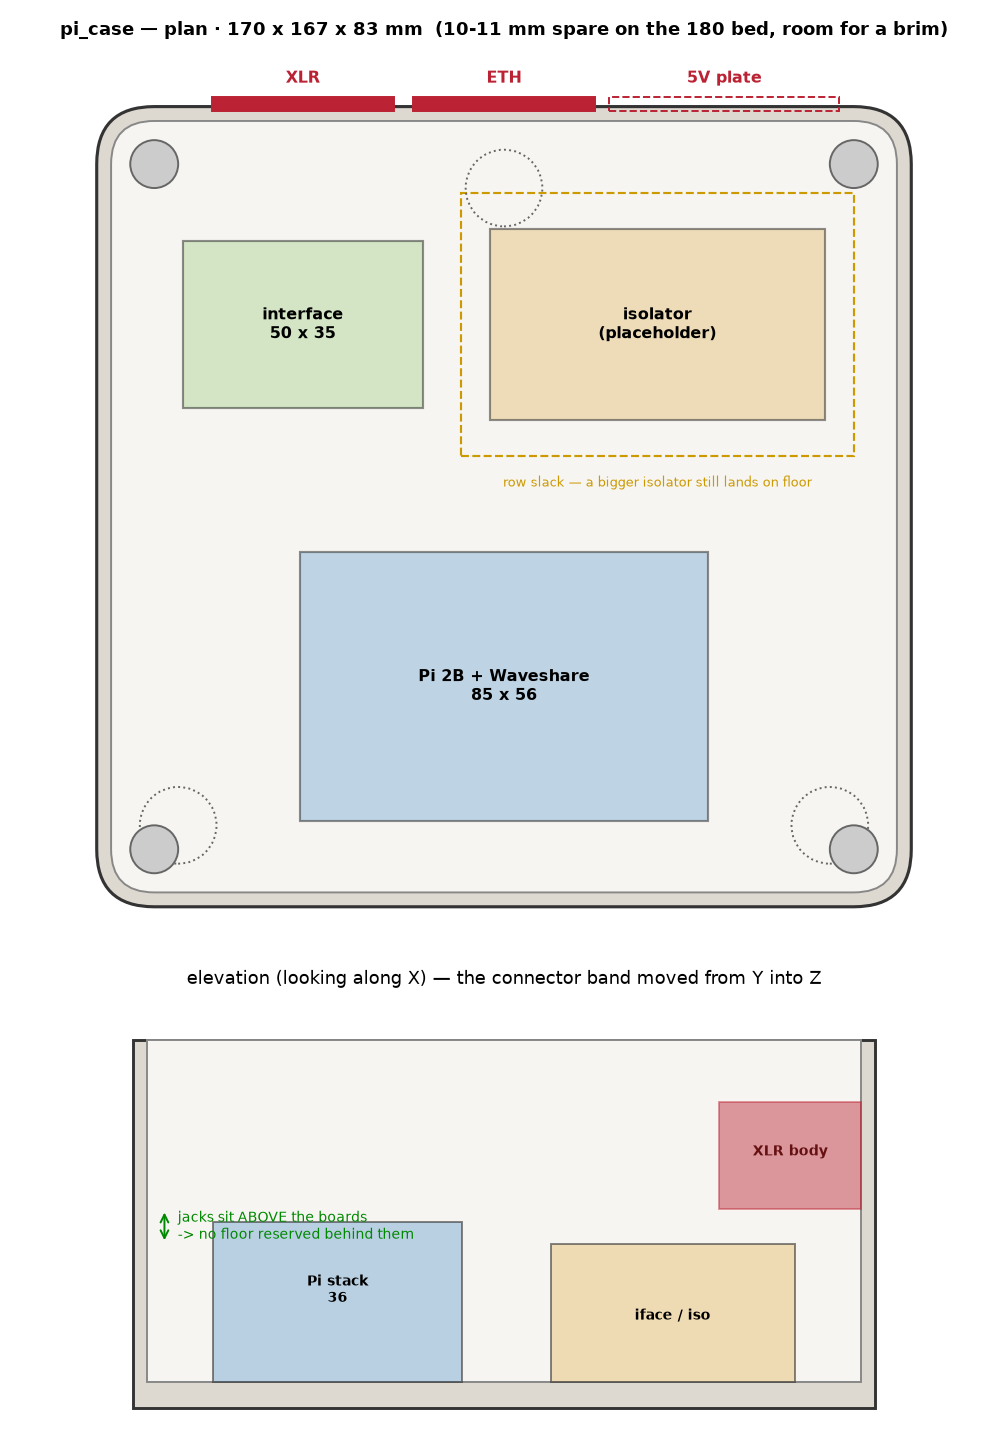
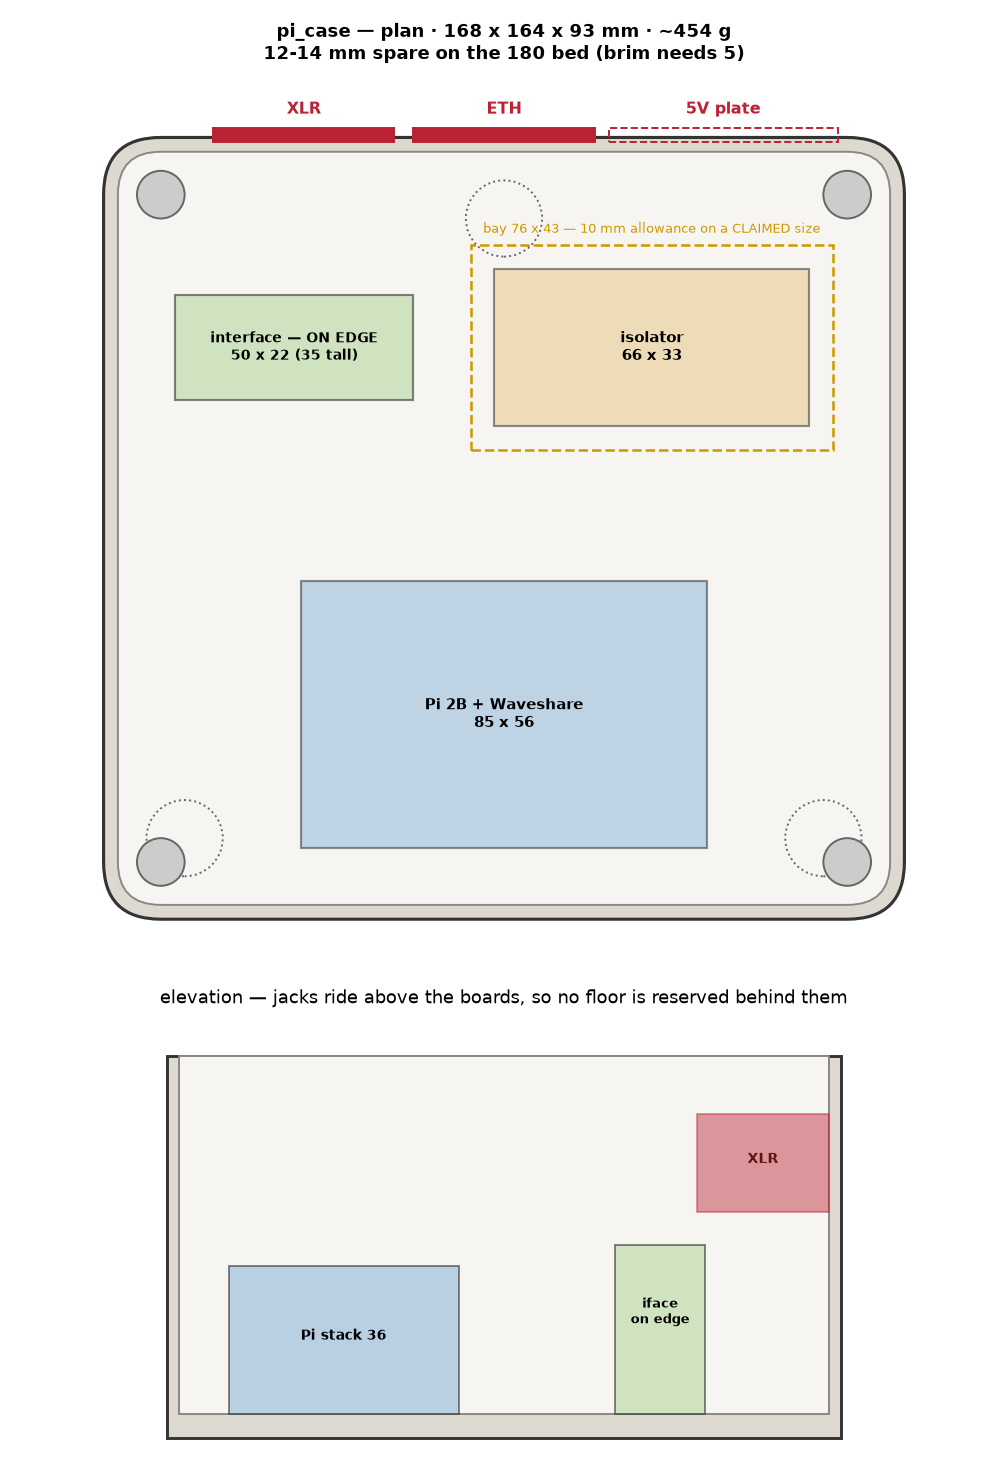
pi_case: real isolator dimensions, with the slack made explicit
Amazon claims 1.3 x 2.6 x 0.9 in = 33 x 66 x 23 mm, so the 70 x 40 x 25
placeholder was generous in every axis and the case does not grow.

Listing dimensions are often the package or rounded and the part is not
in hand, so the slack is now a NAMED allowance (iso_allow = 10 mm) rather
than padding hidden inside an inflated guess. The bay and its retaining
ribs are built from iso_* + iso_allow, so a part up to 10 mm over the
claim still drops in; the bay is open rather than a pocket, so being
wrong by more than that costs a rib trim, not a reprint.

That allowance pushed the case past the bed-with-brim assert, which is
the check working. Kept the allowance and trimmed side_margin 15 -> 12
and row_gap_x 14 -> 12 instead: a wrong listing dimension is the more
likely failure than 3 mm of wall clearance mattering.

168 x 164 x 93, ~454 g, 12-14 mm spare on the bed.

diff --git a/parts/pi_case.py b/parts/pi_case.py
@@ -53,9 +53,12 @@ bed_max = 180.0         # printer bed; asserted against below
 # print was scrap. Several of these numbers ARE guesses (the isolator especially).
 # The A1 Mini is 180 x 180 x 180 and this box is nowhere near the volume limit, so
 # slack is nearly free -- spend it.
-side_margin = 15.0      # board edge -> inner wall (was 6)
+side_margin = 12.0      # board edge -> inner wall (was 6, briefly 15). Trimmed to
+                        # keep the isolator's 10 mm allowance AND stay inside the bed
+                        # with a brim -- the allowance protects against a wrong listing
+                        # dimension, which is the more likely failure.
 band_gap = 20.0         # between ROWS (Pi row -> component row), for wiring (was 8)
-row_gap_x = 14.0        # between the two bays WITHIN the component row. Smaller than
+row_gap_x = 12.0        # between the two bays WITHIN the component row. Smaller than
                         # band_gap on purpose: this pair is what sets the case width,
                         # and at 20 the case came out 176 mm on a 180 mm bed -- no room
                         # for a brim or skirt, which is its own kind of brittle.
@@ -82,8 +85,8 @@ iface_stack_h = 20.0    # board + screw terminals, generous
 # (40 mm), not the interface board, so standing it up does not shrink this box. It
 # is still worth doing -- the screw terminals end up facing sideways and reachable
 # with the lid off, and the runs to the XLR above get shorter.
-_row_back = max(iface_edge_depth, iso_wid) + row_slack
-cav_x = max(pi_len, iface_len + row_gap_x + iso_len) + 2 * side_margin
+_row_back = max(iface_edge_depth, iso_wid + iso_allow) + row_slack
+cav_x = max(pi_len, iface_len + row_gap_x + iso_len + iso_allow) + 2 * side_margin
 cav_y = pi_wid + band_gap + _row_back + 2 * side_margin
 # Only the isolator now sits under the connector wall; the on-edge interface board
 # is off at -X, clear of every jack (asserted below).
@@ -99,8 +102,8 @@ top_z = floor_th + cav_h
 _y0 = -cav_y / 2 + side_margin                      # inner face of the -Y wall
 pi_cy = _y0 + pi_wid / 2
 _row_cy = _y0 + pi_wid + band_gap + _row_back / 2
-iface_cx = -(iface_len + row_gap_x + iso_len) / 2 + iface_len / 2
-iso_cx = (iface_len + row_gap_x + iso_len) / 2 - iso_len / 2
+iface_cx = -(iface_len + row_gap_x + iso_len + iso_allow) / 2 + iface_len / 2
+iso_cx = (iface_len + row_gap_x + iso_len + iso_allow) / 2 - (iso_len + iso_allow) / 2
 pi_cx = 0.0
 
 # --- Pi mount points (chassis.py geometry, translated to pi_cx/pi_cy) ---
@@ -226,8 +229,8 @@ with BuildPart() as pi_case:
 
     # --- isolator retaining ribs (open bay, deliberately not a pocket) ---
     for _sx in (1, -1):
-        with Locations((iso_cx + _sx * (iso_len / 2 + iso_rib_th / 2), _row_cy, floor_th)):
-            Box(iso_rib_th, iso_wid, iso_rib_h,
+        with Locations((iso_cx + _sx * ((iso_len + iso_allow) / 2 + iso_rib_th / 2), _row_cy, floor_th)):
+            Box(iso_rib_th, iso_wid + iso_allow, iso_rib_h,
                 align=(Align.CENTER, Align.CENTER, Align.MIN))
 
     # --- feet: local pads inside, blind pilots up from the bottom face ---
@@ -314,8 +317,8 @@ assert panel_z - xlr_bore_dia / 2 > floor_th, "connector bore cuts into the floo
 # the Pi must not reach into the connector band
 assert xlr_body_depth < cav_y - side_margin, "XLR body is deeper than the cavity"
 # bays must not overlap each other
-assert iface_cx + iface_len / 2 < iso_cx - iso_len / 2, "on-edge board and isolator overlap"
-assert iso_len + 2 * side_margin <= cav_x, "isolator is wider than the cavity"
+assert iface_cx + iface_len / 2 < iso_cx - (iso_len + iso_allow) / 2, "on-edge board and isolator bay overlap"
+assert iso_len + iso_allow + 2 * side_margin <= cav_x, "isolator bay is wider than the cavity"
 # the on-edge board must not sit under any jack
 
 assert _row_cy - _row_back / 2 > pi_cy + pi_wid / 2, "component row overlaps the Pi"

diff --git a/dimensions.py b/dimensions.py
@@ -138,14 +138,17 @@ iface_screw = 3.0
 iface_washer_od = 9.0     # covers a 5 mm hole with margin
 
 # --- Galvanic Ethernet isolator (inline, RJ45 both ends) ---------------------
-# ⚠ NOT MEASURED. Charles confirmed 2026-08-07 it is an inline module needing a
-# patch cable on BOTH sides, but it is currently out of circuit and undimensioned.
-# These are a PLACEHOLDER. The case derives its size from the bay table, so
-# correcting these three numbers rescales the case -- it does not force a redesign.
-# Confirm before printing the case (the coupon does not depend on them).
-iso_len = 70.0
-iso_wid = 40.0
-iso_h = 25.0
+# CLAIMED by the Amazon listing (Charles, 2026-08-07): 1.3" L x 2.6" W x 0.9" H
+# = 33 x 66 x 23 mm. Listing dimensions are frequently the PACKAGE or rounded, and
+# this part is still not in hand, so `iso_allow` below is not decoration -- it is
+# what stops a wrong listing from scrapping a 460 g print.
+iso_len = 66.0            # 2.6 in
+iso_wid = 33.0            # 1.3 in
+iso_h = 23.0              # 0.9 in
+iso_allow = 10.0          # added to the bay on every side before the retaining ribs
+                          # are placed, so a part up to 10 mm over the claim still
+                          # drops in. The bay is open, not a pocket, so being wrong
+                          # by more than that costs a rib trim, not a reprint.
 
 # Barrel-jack panel bore. PROVISIONAL until panel_coupon.py says which ladder rung
 # the real jack passes. Do not print the case on this guess.
